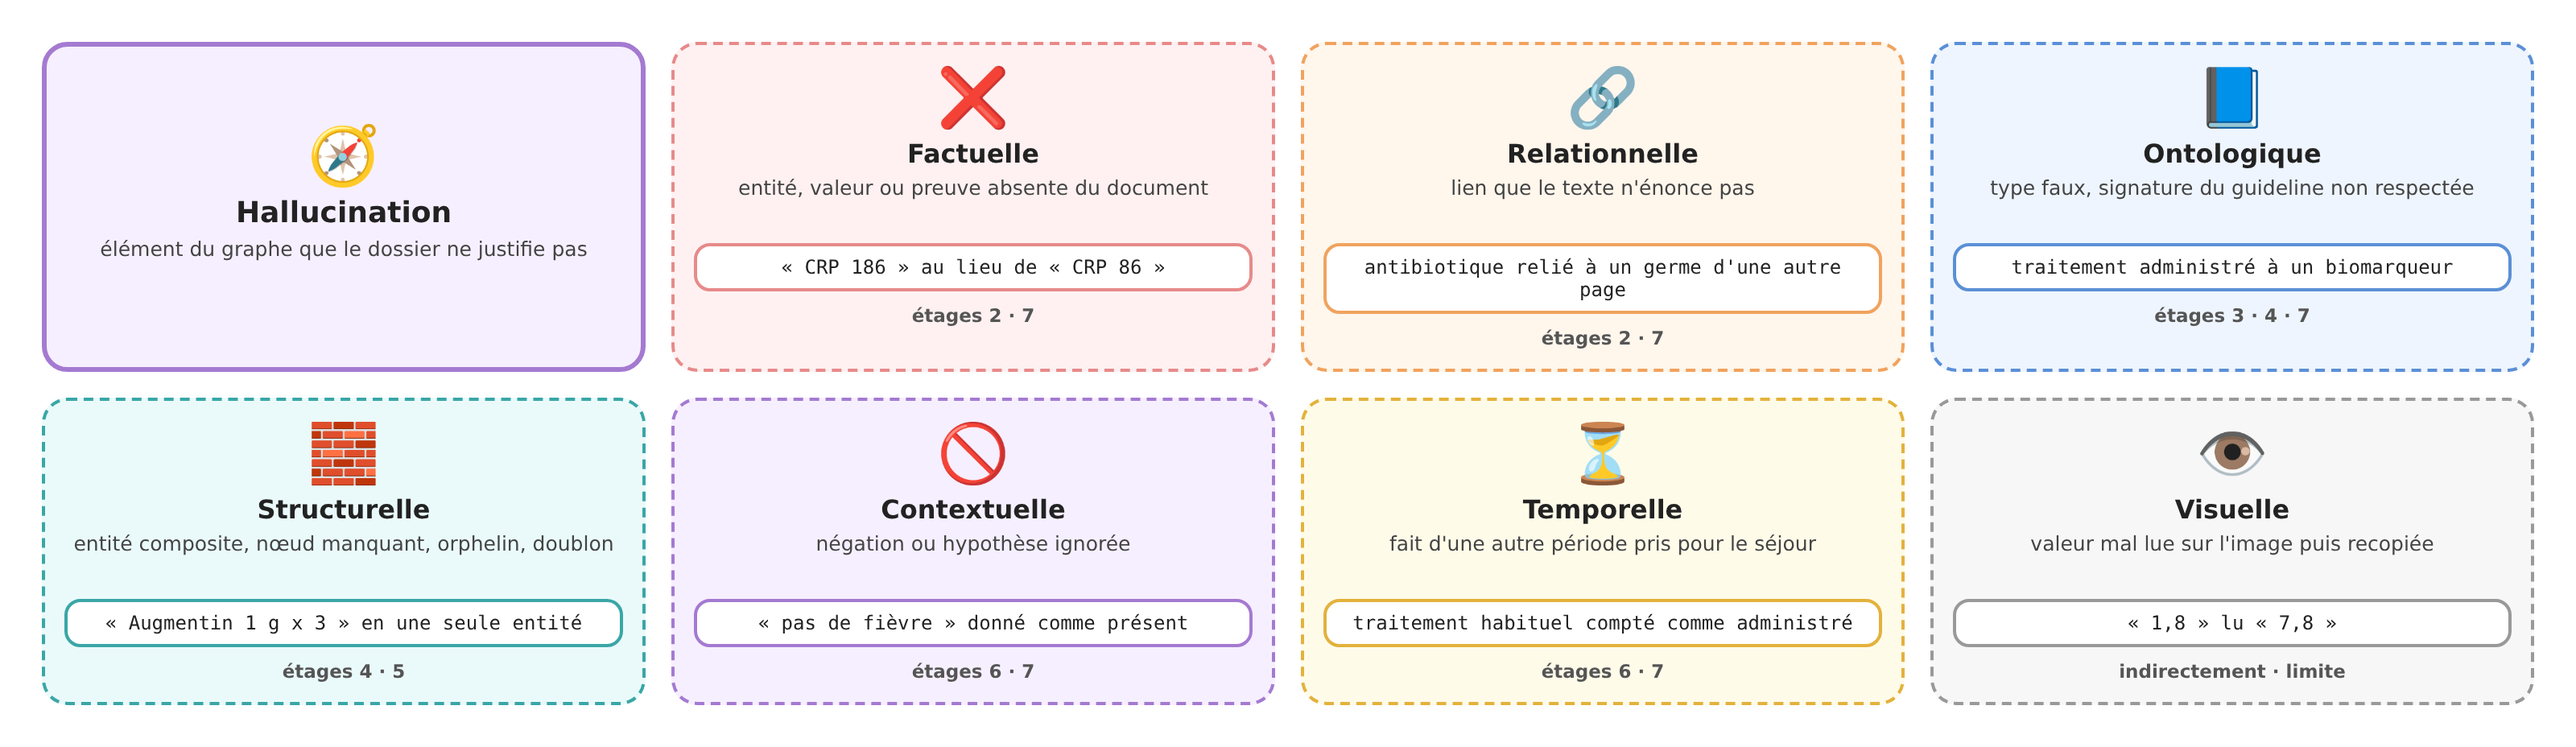
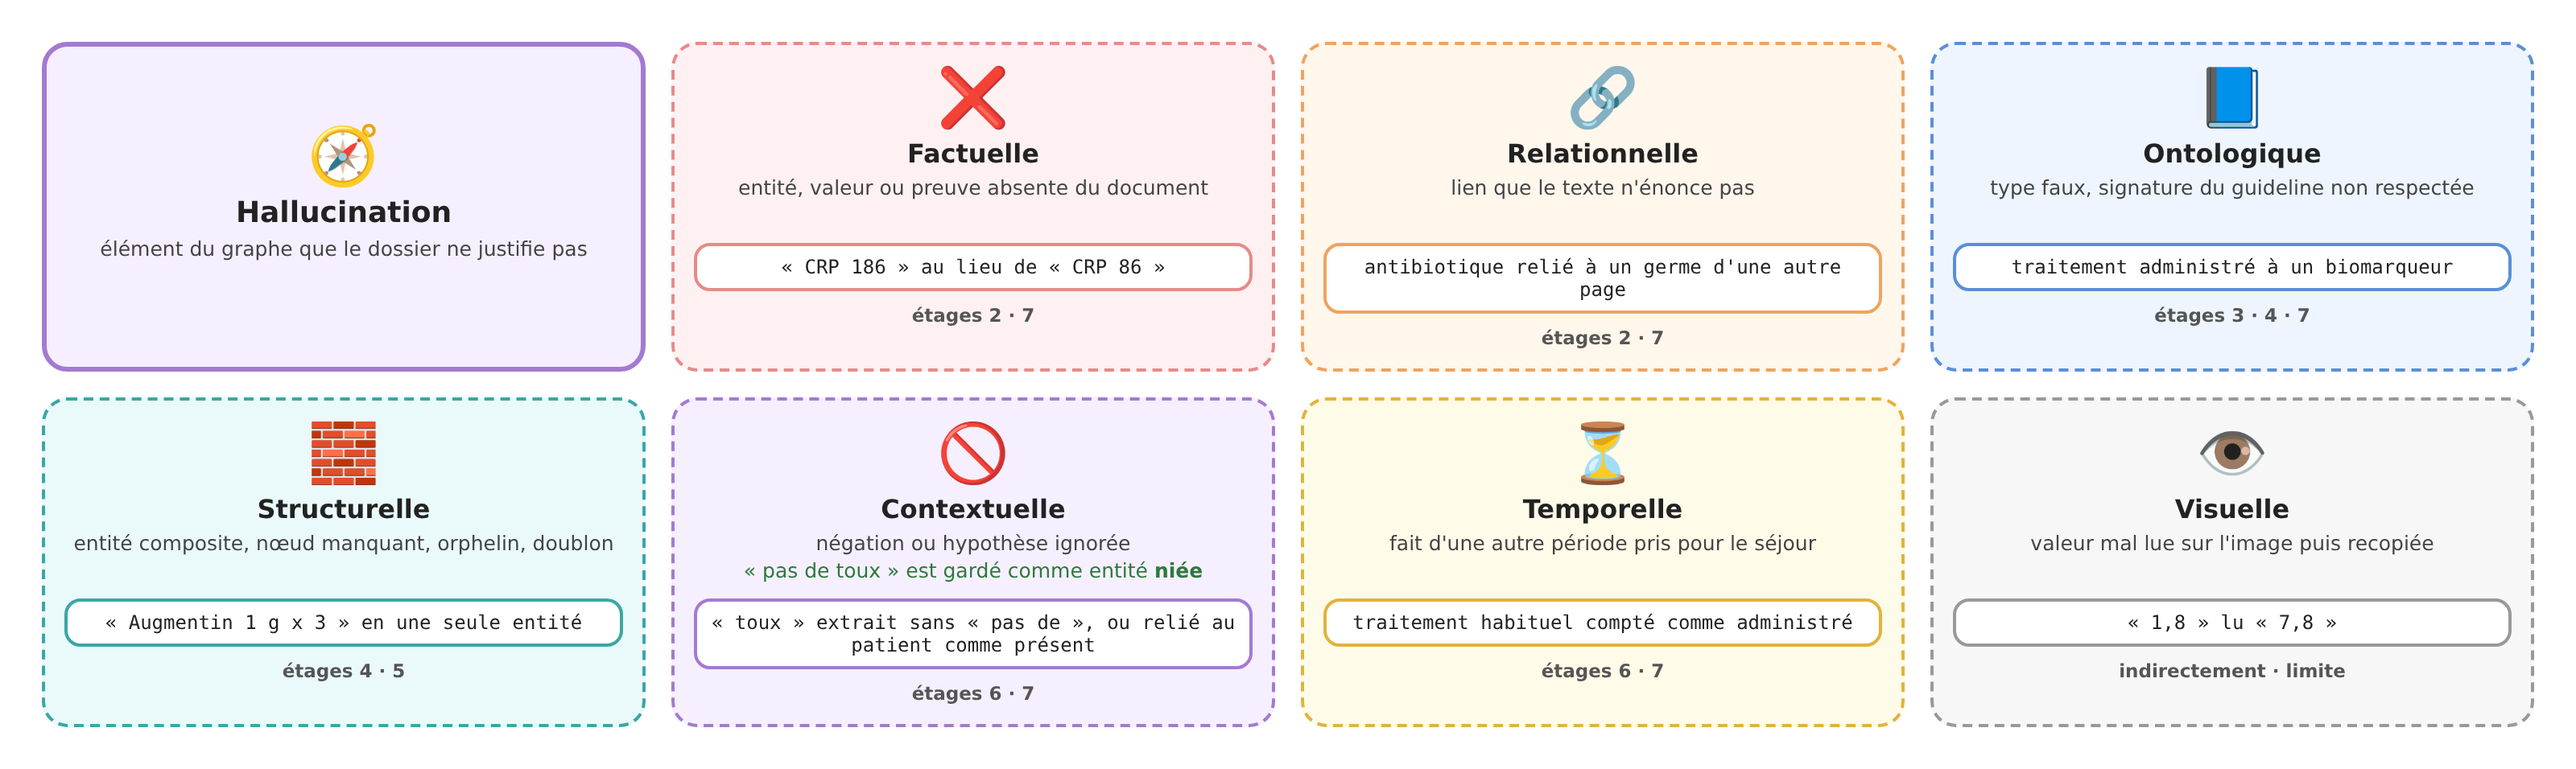
Chapitre 5 : négations (« pas de toux ») présentées comme entités niées conservées, figure taxonomie corrigée
Claude-Session: https://claude.ai/code/session_01U1N2aa47apfcVip95LQDuG

diff --git a/memoire/figures_sources/taxonomie.html b/memoire/figures_sources/taxonomie.html
@@ -16,7 +16,7 @@
  <div class="c orange"><div class="ic">🔗</div><div class="nm">Relationnelle</div><div class="df">lien que le texte n'énonce pas</div><div class="ex" style="border-color:#f0a35e">antibiotique relié à un germe d'une autre page</div><div class="st">étages 2 · 7</div></div>
  <div class="c blue"><div class="ic">📘</div><div class="nm">Ontologique</div><div class="df">type faux, signature du guideline non respectée</div><div class="ex" style="border-color:#5b8fd6">traitement administré à un biomarqueur</div><div class="st">étages 3 · 4 · 7</div></div>
  <div class="c teal"><div class="ic">🧱</div><div class="nm">Structurelle</div><div class="df">entité composite, nœud manquant, orphelin, doublon</div><div class="ex" style="border-color:#3aa6a6">« Augmentin 1 g x 3 » en une seule entité</div><div class="st">étages 4 · 5</div></div>
- <div class="c purple"><div class="ic">🚫</div><div class="nm">Contextuelle</div><div class="df">négation ou hypothèse ignorée</div><div class="ex" style="border-color:#a47ad1">« pas de fièvre » donné comme présent</div><div class="st">étages 6 · 7</div></div>
+ <div class="c purple"><div class="ic">🚫</div><div class="nm">Contextuelle</div><div class="df">négation ou hypothèse ignorée<br><span style="color:#2d7a3c">« pas de toux » est gardé comme entité <b>niée</b></span></div><div class="ex" style="border-color:#a47ad1">« toux » extrait sans « pas de », ou relié au patient comme présent</div><div class="st">étages 6 · 7</div></div>
  <div class="c yellow"><div class="ic">⏳</div><div class="nm">Temporelle</div><div class="df">fait d'une autre période pris pour le séjour</div><div class="ex" style="border-color:#e3b23c">traitement habituel compté comme administré</div><div class="st">étages 6 · 7</div></div>
  <div class="c grey"><div class="ic">👁</div><div class="nm">Visuelle</div><div class="df">valeur mal lue sur l'image puis recopiée</div><div class="ex" style="border-color:#999">« 1,8 » lu « 7,8 »</div><div class="st">indirectement · limite</div></div>
 </div>

diff --git a/memoire/chapitre_trace.tex b/memoire/chapitre_trace.tex
@@ -23,7 +23,7 @@ Les taxonomies présentées au chapitre~2 ont été construites pour la généra
   \item \textbf{Relationnelle} : un lien entre deux entités bien présentes dans le dossier, mais que le texte n'énonce pas. Le modèle déduit la relation de la seule présence des deux entités.
   \item \textbf{Ontologique} : une entité du mauvais type ou une relation qui ne respecte pas les signatures du guideline, par exemple une administration de traitement dirigée vers un biomarqueur.
   \item \textbf{Structurelle} : un graphe mal formé, avec des entités composites qui regroupent deux concepts, des nœuds intermédiaires manquants, des relations orphelines ou des doublons.
-  \item \textbf{Contextuelle} : une mention bien écrite dans le texte, mais dont le contexte change le sens, comme une négation (\og pas de fièvre \fg{}) ou une hypothèse (\og suspicion de pneumopathie \fg{}).
+  \item \textbf{Contextuelle} : une mention bien écrite dans le texte, mais dont le contexte change le sens, comme une négation ou une hypothèse (\og suspicion de pneumopathie \fg{}). Une absence explicitement mentionnée, comme \og pas de toux \fg{}, n'est pas une hallucination : c'est une information clinique, extraite comme une entité niée, conformément au guideline. L'hallucination consiste à ignorer la négation, en extrayant \og toux \fg{} seul ou en reliant \og pas de toux \fg{} au patient comme un symptôme présent.
   \item \textbf{Temporelle} : un fait d'une autre période pris pour un fait du séjour, par exemple un traitement habituel compté comme administré en réanimation.
   \item \textbf{Visuelle} : une valeur mal lue sur l'image puis recopiée telle quelle dans la transcription, et donc ancrée dans un texte lui-même erroné.
 \end{itemize}
@@ -165,13 +165,13 @@ En mode standard, les décisions suivent des règles fixées avant toute évalua
 \paragraph{Entités.}
 \begin{itemize}
   \item \textbf{E1} : une entité qui ne figure pas mot pour mot dans le texte de sa page est retirée ; c'est une reformulation ou une invention du modèle.
-  \item \textbf{E2} : une entité niée (\og pas de fièvre \fg{}) est \emph{conservée} et marquée comme niée. L'absence d'un signe est une information clinique, et le Gold Standard validé par le médecin l'annote comme telle.
+  \item \textbf{E2} : une entité niée (\og pas de toux \fg{}) est \emph{conservée} et marquée comme niée. L'absence d'un signe est une information clinique, et le Gold Standard validé par le médecin l'annote comme telle.
   \item \textbf{E3} : une entité à laquelle le modèle lui-même a attribué une confiance moyenne ou faible est retirée.
 \end{itemize}
 
 \paragraph{Relations.}
 \begin{itemize}
-  \item \textbf{R2} : une relation qui affirme une entité niée (par exemple \og le patient présente le symptôme \emph{pas de fièvre} \fg{}) est retirée. L'entité niée reste dans le graphe, mais aucune relation ne la donne comme présente, conformément à la convention du guideline.
+  \item \textbf{R2} : une relation qui affirme une entité niée (par exemple \og le patient présente le symptôme \emph{pas de toux} \fg{}) est retirée. L'entité niée reste dans le graphe, mais aucune relation ne la donne comme présente, conformément à la convention du guideline.
   \item \textbf{R3} : une relation créée par SGCE qui échoue aux contrôles d'ancrage de l'étage~2 est retirée.
   \item Une entité retirée emporte les relations qui pointent vers elle, afin que le graphe reste cohérent.
 \end{itemize}
